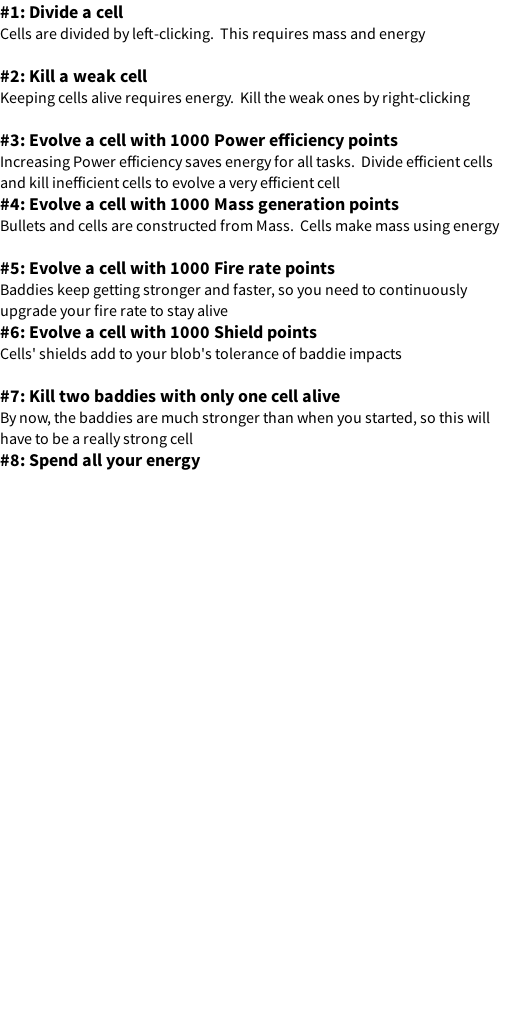
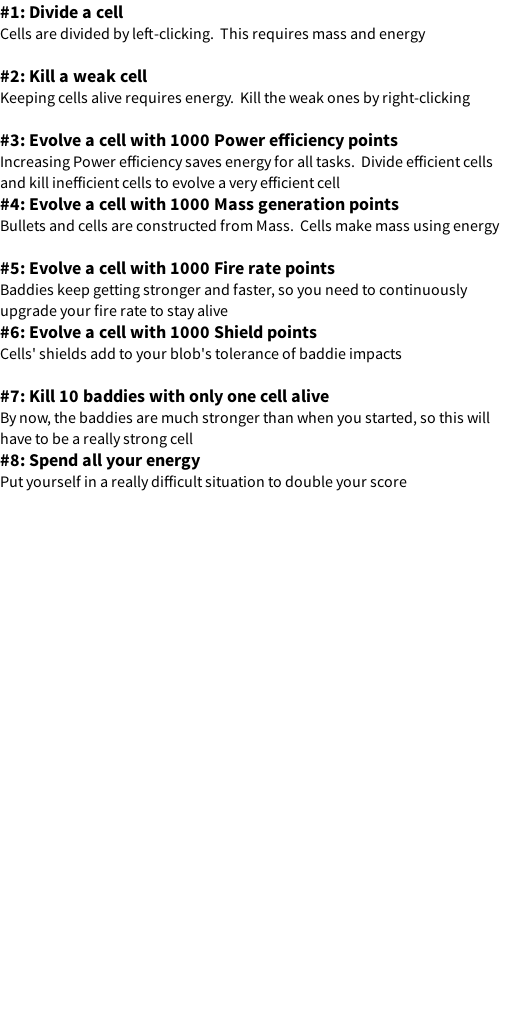
Handle mission 6 and 7

diff --git a/game.js b/game.js
@@ -790,6 +790,8 @@ var GAME_nextBaddieSpawn;
 var GAME_scoreAnim;
 var GAME_scoreAnimAmount;
 
+var GAME_mission6Progress;
+
 var GAME_paused = false;
 
 function GAME_KeyPressed(e)
@@ -1275,7 +1277,26 @@ function GAME_CompleteMission (nr)
   ++GAME_mission;
 
   GAME_scoreAnim = 0;
-  GAME_scoreAnimAmount = (nr < 2) ? 500 : 10000;
+
+  switch (nr)
+    {
+    case 0:
+    case 1:
+
+      GAME_scoreAnimAmount = 500;
+
+      break;
+
+    case 6:
+
+      GAME_scoreAnimAmount = Math.floor (GAME_score);
+
+      break;
+
+    default:
+
+      GAME_scoreAnimAmount = 10000;
+    }
 
   GAME_score += 10000;
 
@@ -1432,6 +1453,9 @@ function GAME_Update ()
             GAME_energy = 0;
         }
 
+      if (GAME_mission == 7 && !GAME_energy)
+        GAME_CompleteMission (7);
+
       if (GAME_energy > GAME_energyStorage)
         GAME_energy = GAME_energyStorage;
 
@@ -1553,7 +1577,12 @@ function GAME_Update ()
                   baddie.health -= amount;
 
                   if (baddie.health < 5)
-                    GAME_baddies.splice(j, 1);
+                    {
+                      if (GAME_mission == 6 && ++GAME_mission6Progress == 10)
+                        GAME_CompleteMission (6);
+
+                      GAME_baddies.splice(j, 1);
+                    }
 
                   break;
                 }
@@ -1729,6 +1758,8 @@ function GAME_Reset ()
   GAME_nextCellColor = 0;
 
   GAME_nextBaddieSpawn = 1.0;
+
+  GAME_mission6Progress = 0;
 
   GAME_cells.push (GAME_GenerateCell ());
   GAME_score = 0;
